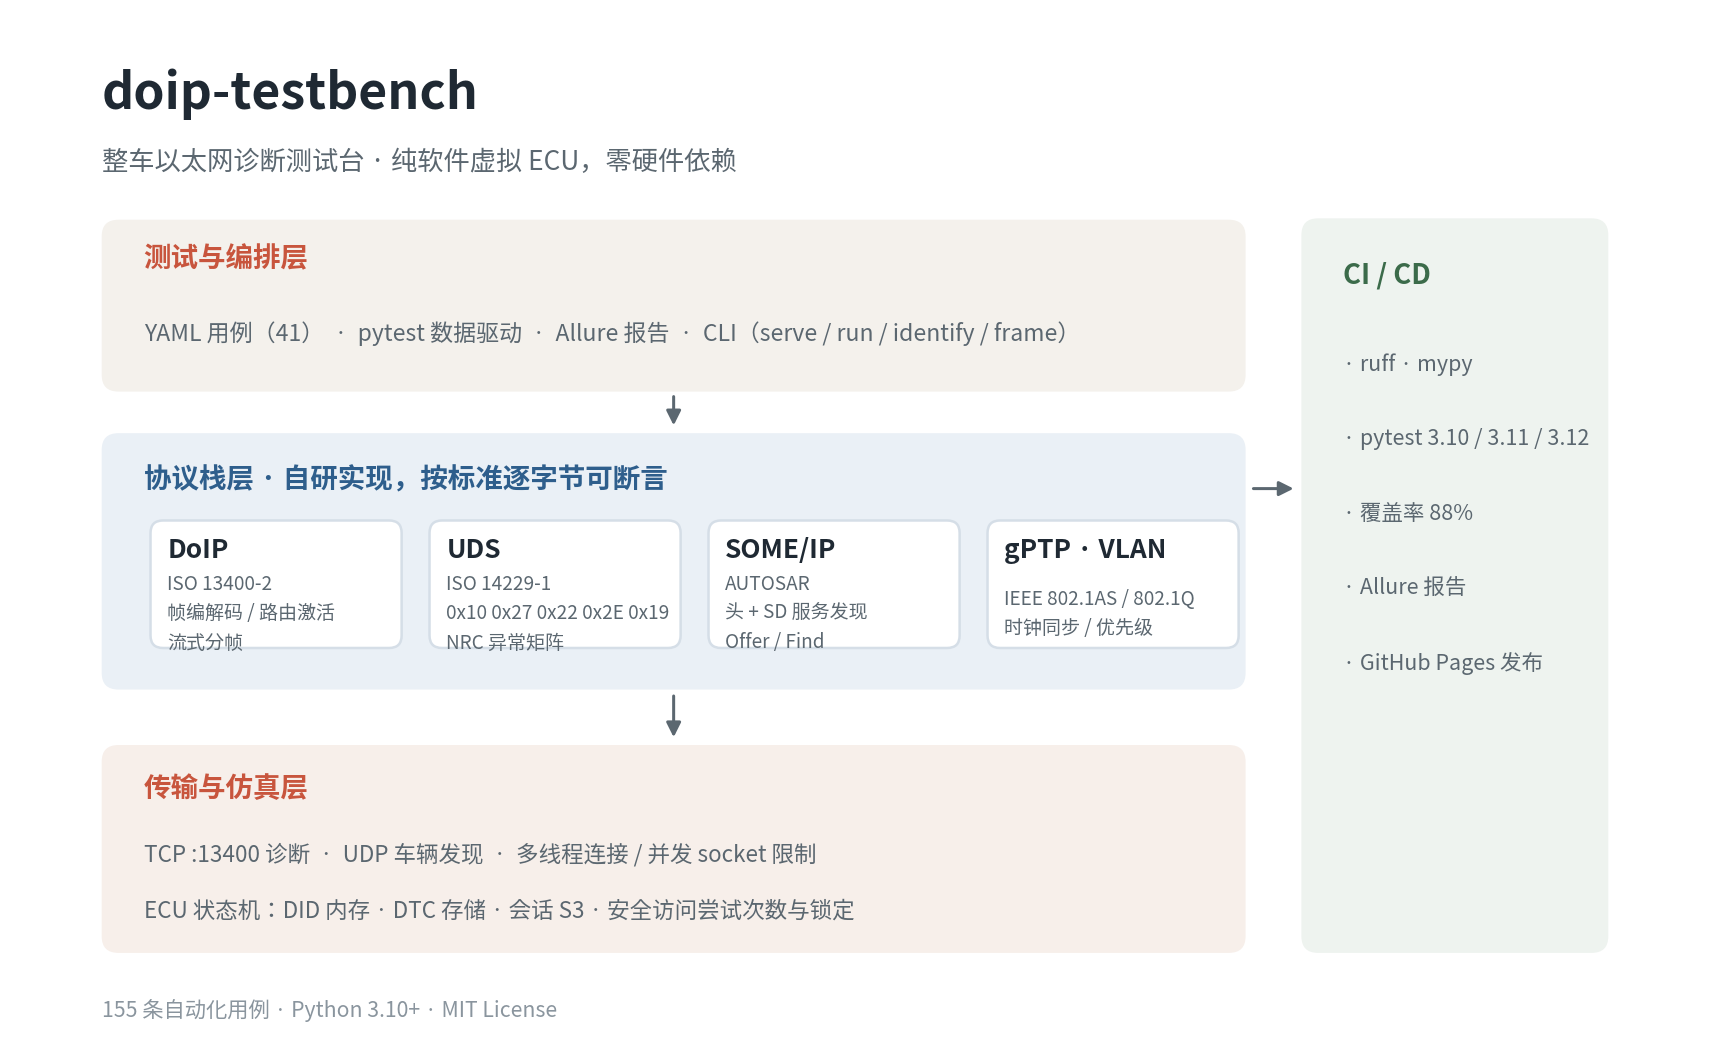
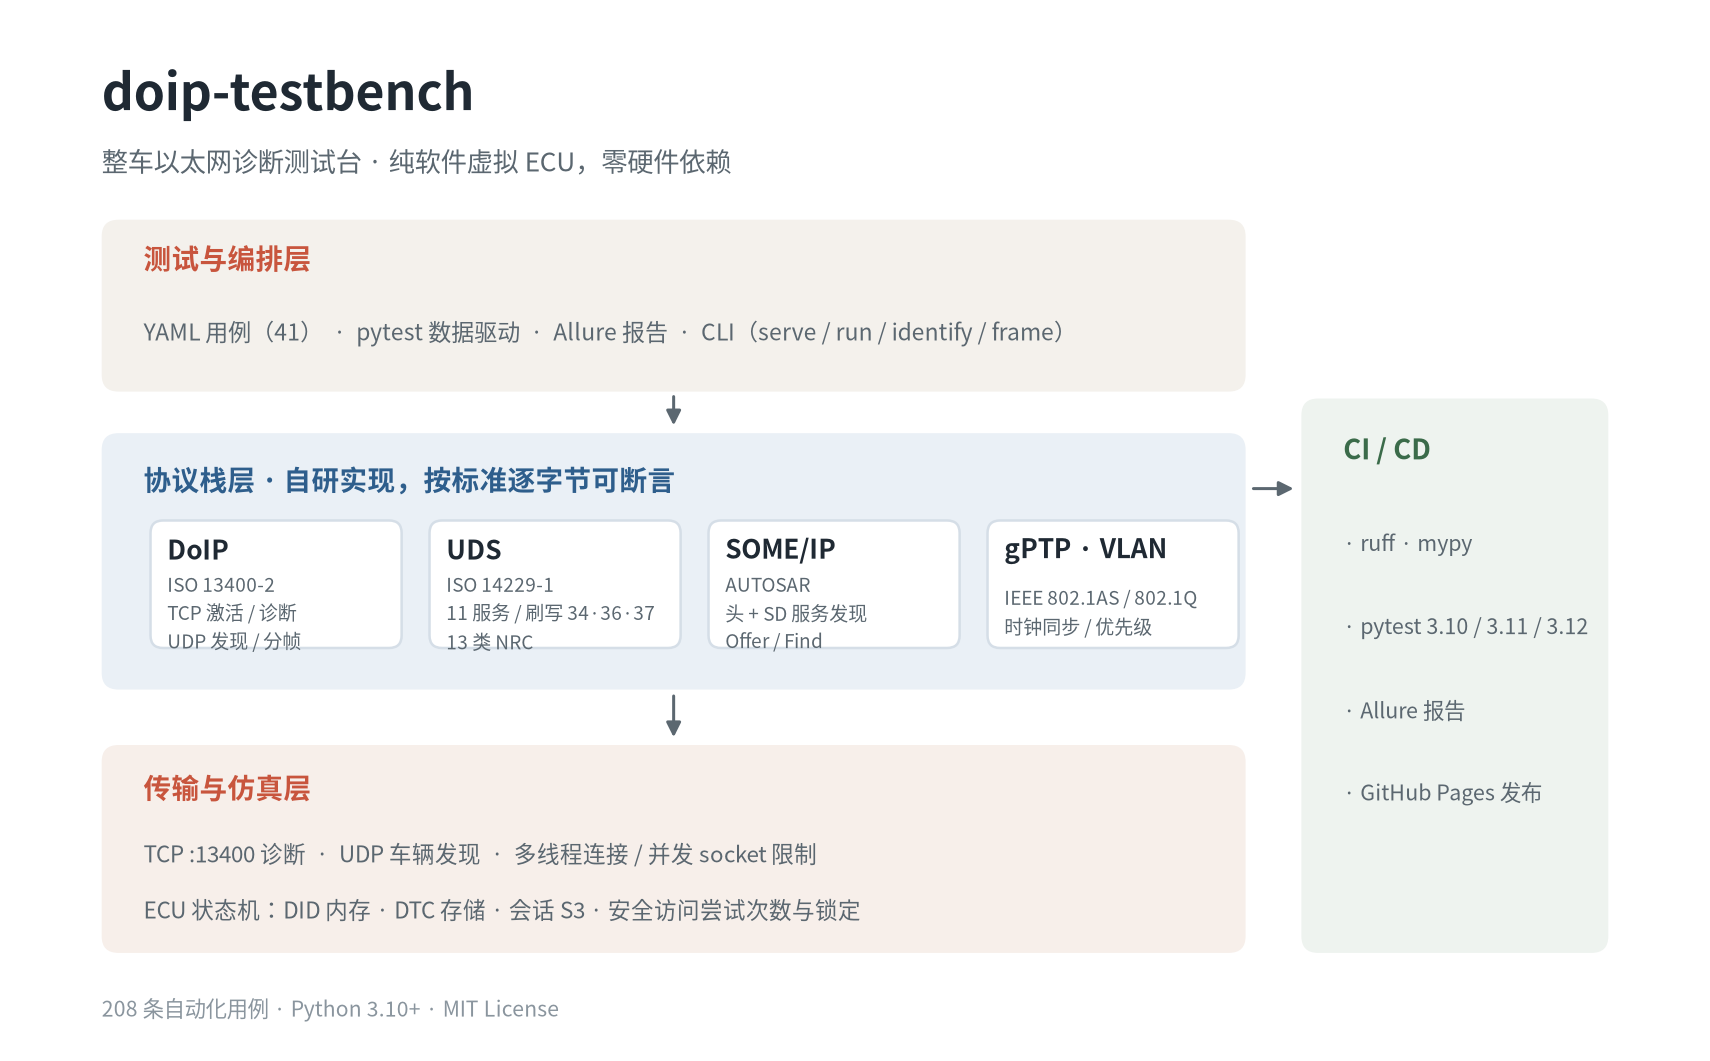
feat: reclaim idle connections, log send failures

diff --git a/src/doipbench/doip/server.py b/src/doipbench/doip/server.py
@@ -19,6 +19,7 @@ import contextlib
 import logging
 import socket
 import threading
+import time
 from collections.abc import Callable
 from dataclasses import dataclass, field
 
@@ -105,6 +106,8 @@ class _Connection:
     uds_map: dict[int, UdsServer] = field(init=False)
     parser: DoIPFrameParser = field(init=False)
     _send_lock: threading.Lock = field(default_factory=threading.Lock, repr=False)
+    #: 最后一次收到字节的时刻。用 ``monotonic`` 是因为墙钟跳变会让空闲判定失效。
+    last_activity: float = field(default_factory=time.monotonic)
 
     def __post_init__(self) -> None:
         config = self.server.config
@@ -119,6 +122,13 @@ class _Connection:
         logger.info("DoIP connection from %s:%d", *self.peer)
         try:
             while not self.server.stopping:
+                if self._idle_expired():
+                    logger.info(
+                        "closing idle connection from %s:%d (%.1fs)",
+                        *self.peer,
+                        self._idle_seconds(),
+                    )
+                    break
                 try:
                     chunk = self.sock.recv(4096)
                 except TimeoutError:
@@ -127,6 +137,7 @@ class _Connection:
                     break
                 if not chunk:
                     break
+                self.last_activity = time.monotonic()
                 try:
                     frames = self.parser.feed(chunk)
                 except ProtocolError as exc:
@@ -139,6 +150,22 @@ class _Connection:
         finally:
             self._close()
             logger.info("DoIP connection from %s:%d closed", *self.peer)
+
+    def _idle_seconds(self) -> float:
+        return time.monotonic() - self.last_activity
+
+    def _idle_expired(self) -> bool:
+        """True when nothing has arrived for longer than the inactivity limit.
+
+        ``recv`` timing out only says "no data in the last 200 ms"; it does not
+        mean the peer is gone.  A tester that was unplugged or lost power sends
+        neither FIN nor RST, so the kernel keeps retransmitting for ~15 minutes
+        before ``recv`` finally errors out.  Until then the connection keeps
+        occupying a ``max_concurrent_sockets`` slot and every new tester is
+        answered with 0x01 (all sockets registered).
+        """
+        limit = self.server.config.inactivity_timeout
+        return limit is not None and self._idle_seconds() >= limit
 
     def _close(self) -> None:
         with self.server._lock:  # noqa: SLF001 - tight coupling is intentional
@@ -310,8 +337,15 @@ class _Connection:
     # -------------------------------------------------------------- tx helpers
     def _send(self, payload_type: int, payload: bytes = b"") -> None:
         frame = DoIPFrame(payload_type, payload)
-        with self._send_lock, contextlib.suppress(OSError):
-            self.sock.sendall(frame.encode())
+        with self._send_lock:
+            try:
+                self.sock.sendall(frame.encode())
+            except OSError as exc:
+                # 对端已经 RST / 半关闭时 sendall 会抛 BrokenPipe/ConnectionReset。
+                # 这是连接层面的正常事件而不是程序错误：兜住它，让下一轮 recv
+                # 返回 0 走统一的清理路径。但必须留日志——静默失败在 tester 侧
+                # 只表现为"超时"，排查时会一路往协议层查，最后发现是 socket 断了。
+                logger.debug("send failed on %s:%d: %s", *self.peer, exc)
 
     def _send_generic_nack(self, original_payload_type: int, code: int) -> None:
         payload = original_payload_type.to_bytes(2, "big") + bytes([code])

diff --git a/tests/conformance/test_doip_conformance.py b/tests/conformance/test_doip_conformance.py
@@ -339,3 +339,58 @@ def test_alive_check_on_unactivated_connection_closes_it(client: DoIPClient) -> 
     client.send_frame(DoIPFrame(PayloadType.ALIVE_CHECK_REQUEST))
     with pytest.raises(DoIPConnectionClosed):
         client.receive_frame()
+
+
+@pytest.mark.conformance
+@allure.feature("DoIP conformance")
+@allure.story("Connection lifecycle")
+def test_idle_connection_is_reclaimed_after_inactivity_timeout() -> None:
+    """空闲连接要被回收，否则会永久占着 ``max_concurrent_sockets`` 名额。
+
+    拔网线、ECU 掉电的对端不会发 FIN 也不会发 RST，服务端只能靠空闲计时发现。
+    这里把阈值压到 0.5s、并发上限压到 1，直接观察第二个 tester 从「被拒」到
+    「能激活」——这就是现场连不上的那个症状。
+    """
+    config = default_config(max_concurrent_sockets=1, inactivity_timeout=0.5)
+    with DoIPServer(config) as server:
+        idle = DoIPClient(port=server.port, timeout=2.0).connect()
+        second = DoIPClient(port=server.port, timeout=2.0).connect()
+        try:
+            assert idle.routing_activation().accepted
+
+            denied = second.routing_activation()
+            assert (
+                denied.response_code == RoutingActivationResponseCode.DENIED_ALL_SOCKETS_REGISTERED
+            )
+
+            # idle 从此一个字节都不发，等价于拔线：没有 FIN/RST 可等。
+            # second 必须保持有动作，否则它自己也会被判空闲——这条用例只想
+            # 验证「idle 松开名额」这一件事，两个连接都被关就测不出因果了。
+            deadline = time.monotonic() + 1.2
+            while time.monotonic() < deadline:
+                second.send_frame(DoIPFrame(PayloadType.VEHICLE_IDENTIFICATION_REQUEST))
+                second.receive_frame(timeout=1.0)
+                time.sleep(0.25)
+
+            assert second.routing_activation().accepted
+        finally:
+            idle.close()
+            second.close()
+
+
+@pytest.mark.conformance
+@allure.feature("DoIP conformance")
+@allure.story("Connection lifecycle")
+def test_active_connection_survives_inactivity_timeout() -> None:
+    """空闲判定看最后一次收发，不是连接建立时间。
+
+    没有这条，把超时实现成「连接活了 N 秒就关」也能过上面的用例，却会掐掉
+    正在跑长流程的 tester（刷写时两次 0x36 之间本来就可能有间隔）。
+    """
+    config = default_config(inactivity_timeout=0.5)
+    with DoIPServer(config) as server, DoIPClient(port=server.port, timeout=2.0) as client:
+        assert client.routing_activation().accepted
+        deadline = time.monotonic() + 1.2
+        while time.monotonic() < deadline:
+            assert client.alive_check() == client.client_address
+            time.sleep(0.2)

diff --git a/tools/render_architecture.py b/tools/render_architecture.py
@@ -126,8 +126,8 @@ def main() -> None:
     )
 
     tiles = [
-        (9.5, "DoIP", "ISO 13400-2\n帧编解码 / 路由激活\n流式分帧"),
-        (29.5, "UDS", "ISO 14229-1\n0x10 0x27 0x22 0x2E 0x19\nNRC 异常矩阵"),
+        (9.5, "DoIP", "ISO 13400-2\nTCP 激活 / 诊断\nUDP 发现 / 分帧"),
+        (29.5, "UDS", "ISO 14229-1\n11 服务 / 刷写 34·36·37\n13 类 NRC"),
         (49.5, "SOME/IP", "AUTOSAR\n头 + SD 服务发现\nOffer / Find"),
         (69.5, "gPTP · VLAN", "IEEE 802.1AS / 802.1Q\n时钟同步 / 优先级"),
     ]
@@ -143,7 +143,7 @@ def main() -> None:
         ax,
         9,
         13.6,
-        "TCP :13400 诊断  ·  UDP 车辆发现  ·  多线程连接 / 并发 socket 限制",
+        "TCP :13400 诊断  ·  UDP 车辆发现  ·  多线程连接 / socket 上限与空闲回收",
         size=9.0,
         color=MUTED,
     )
@@ -157,26 +157,25 @@ def main() -> None:
     )
 
     # ------------------------------------------------------------------ CI
-    box(ax, 92, 6.5, 22, 53, facecolor=FILL_CI)
-    label(ax, 95, 55.4, "CI / CD", size=11, weight="bold", color="#3B6B4A")
+    box(ax, 92, 6.5, 22, 40, facecolor=FILL_CI)
+    label(ax, 95, 42.8, "CI / CD", size=11, weight="bold", color="#3B6B4A")
     ci_lines = [
         "ruff · mypy",
         "pytest 3.10 / 3.11 / 3.12",
-        "覆盖率 88%",
         "Allure 报告",
         "GitHub Pages 发布",
     ]
-    y = 49.0
+    y = 36.0
     for line in ci_lines:
         label(ax, 95, y, "· " + line, size=8.6, color=MUTED)
-        y -= 5.4
+        y -= 6.0
 
     # --------------------------------------------------------------- arrows
     arrow(ax, (47, 47.0), (47, 44.2))
     arrow(ax, (47, 25.4), (47, 21.7))
     arrow(ax, (88.2, 40), (91.8, 40))
 
-    label(ax, 6, 2.4, "155 条自动化用例 · Python 3.10+ · MIT License", size=8.5, color="#8A959E")
+    label(ax, 6, 2.4, "210 条自动化用例 · Python 3.10+ · MIT License", size=8.5, color="#8A959E")
 
     OUT.parent.mkdir(parents=True, exist_ok=True)
     fig.savefig(OUT, bbox_inches="tight", facecolor=PAPER)

diff --git a/src/doipbench/config.py b/src/doipbench/config.py
@@ -77,6 +77,10 @@ class EcuConfig:
     max_concurrent_sockets: int = 3
     #: 同时存在的 TCP 连接硬上限（含未激活），防止空连接耗尽线程与句柄。
     max_open_sockets: int = 16
+    #: 单条连接的空闲上限（秒）。超时后服务端主动关闭连接。``None`` 关闭该机制。
+    #: 没有它，拔网线/掉电的 tester 只能等内核重传耗尽（十几分钟）才被清理，
+    #: 期间一直占着 ``max_concurrent_sockets`` 的名额。
+    inactivity_timeout: float | None = 300.0
     max_data_size: int = 4096
     p2_ms: int = 50
     p2_star_ms: int = 5000

diff --git a/README.md b/README.md
@@ -2,11 +2,13 @@
 
 一个用 Python 写的车载诊断练习项目：虚拟 ECU + 一套 pytest 测试用例。
 
-虚拟 ECU 同时监听 UDP 和 TCP 13400：车辆识别、实体状态、电源模式走 UDP（tester 还不知道 ECU 的 IP，只能靠广播发现），路由激活、诊断消息、Alive Check 走 TCP。DoIP 侧实现 0x0001–0x0004、0x0005 / 0x0006、0x0007 / 0x0008、0x4001–0x4004、0x8001 / 0x8003；UDS 侧实现 0x10 / 0x27 / 0x22 / 0x2E / 0x19 / 0x3E / 0x11 / 0x31 / 0x34 / 0x36 / 0x37 十一个服务。配置里填了路由表之后，它就是一个网关：按目标逻辑地址把请求转发给挂在下挂的多个 ECU，未知地址回 0x8003。测试用例不需要 CANoe 或真实硬件，clone 下来装个依赖就能跑。
+虚拟 ECU 同时监听 UDP 和 TCP 13400：车辆识别、实体状态、电源模式走 UDP（tester 还不知道 ECU 的 IP，只能靠广播发现），路由激活、诊断消息、Alive Check 走 TCP。DoIP 侧实现 0x0001–0x0004、0x0005 / 0x0006、0x0007 / 0x0008、0x4001–0x4004、0x8001 / 0x8003；UDS 侧实现 0x10 / 0x27 / 0x22 / 0x2E / 0x19 / 0x3E / 0x11 / 0x31 / 0x34 / 0x36 / 0x37 十一个服务。配置里填了路由表之后，它就是一个网关：按目标逻辑地址把请求转发给下挂的多个 ECU，未知地址回 0x8003。测试用例不需要 CANoe 或真实硬件，clone 下来装个依赖就能跑。
 
 [![CI](https://github.com/xgw7117/doip-testbench/actions/workflows/ci.yml/badge.svg)](https://github.com/xgw7117/doip-testbench/actions/workflows/ci.yml)
 [![Python](https://img.shields.io/badge/python-3.10%20%7C%203.11%20%7C%203.12-blue)](https://www.python.org)
 [![License](https://img.shields.io/badge/license-MIT-green)](LICENSE)
+
+![架构](docs/images/architecture.png)
 
 ## 实现范围
 
@@ -53,12 +55,12 @@ with DoIPServer(config, port=13400) as server:
 
 ## 测试
 
-一共 208 条，跑完 `pytest` 的最后一行就是这个数：
+一共 210 条，跑完 `pytest` 的最后一行就是这个数：
 
 | 层 | 条数 | 测什么 | 位置 |
 | --- | --- | --- | --- |
 | 单元 | 114 | 编解码、状态机、YAML 加载器，不碰网络 | `tests/unit/` |
-| 协议一致性 | 80 | 41 条 UDS 服务用例（YAML 数据驱动）+ 27 条 TCP 报文用例 + 10 条 UDP 报文用例 | `tests/conformance/` |
+| 协议一致性 | 82 | 41 条 UDS 服务用例（YAML 数据驱动）+ 30 条 TCP 报文用例 + 11 条 UDP 报文用例 | `tests/conformance/` |
 | 端到端 | 14 | 会话切换、安全锁定、两个 tester 同时连接、网关转发 | `tests/functional/` |
 
 GitHub Actions 上用 Python 3.10 / 3.11 / 3.12 各跑一遍。
@@ -102,7 +104,7 @@ tests/
 - 这个项目是为了学协议和测试写的，没有和真实 ECU 对接过。
 - 安全访问用的是简化的哈希算法，真实项目里这一步由 OEM 提供的 SeedKey DLL 完成。
 - UDP 只放发现类报文（识别 / 实体状态 / 电源模式）。诊断和 Alive Check 只能走 TCP，往 UDP 上发会收到 generic NACK——不是没实现，是标准不允许。
-- 网关是**进程内的逻辑地址路由**：按目标地址把请求分发到下挂的 UDS 实例，不是真的两跳网络。DoIP 的 entity 多跳（跨 entity 转发）没做，Alive Check 也只做了被动的 0x0007 → 0x0008 应答，没有主动探活回收空闲连接。
+- 网关是**进程内的逻辑地址路由**：按目标地址把请求分发到下挂的 UDS 实例，不是真的两跳网络。DoIP 的 entity 多跳（跨 entity 转发）没做；Alive Check 只做被动的 0x0007 → 0x0008 应答，不主动发探活包。空闲连接靠 `inactivity_timeout`（默认 300 s，`None` 关闭）回收——拔线/掉电的 tester 不会发 FIN 或 RST，否则只能等内核重传耗尽（约 15 分钟），期间一直占着 `max_concurrent_sockets` 的名额。
 
 ## 参考标准
 
